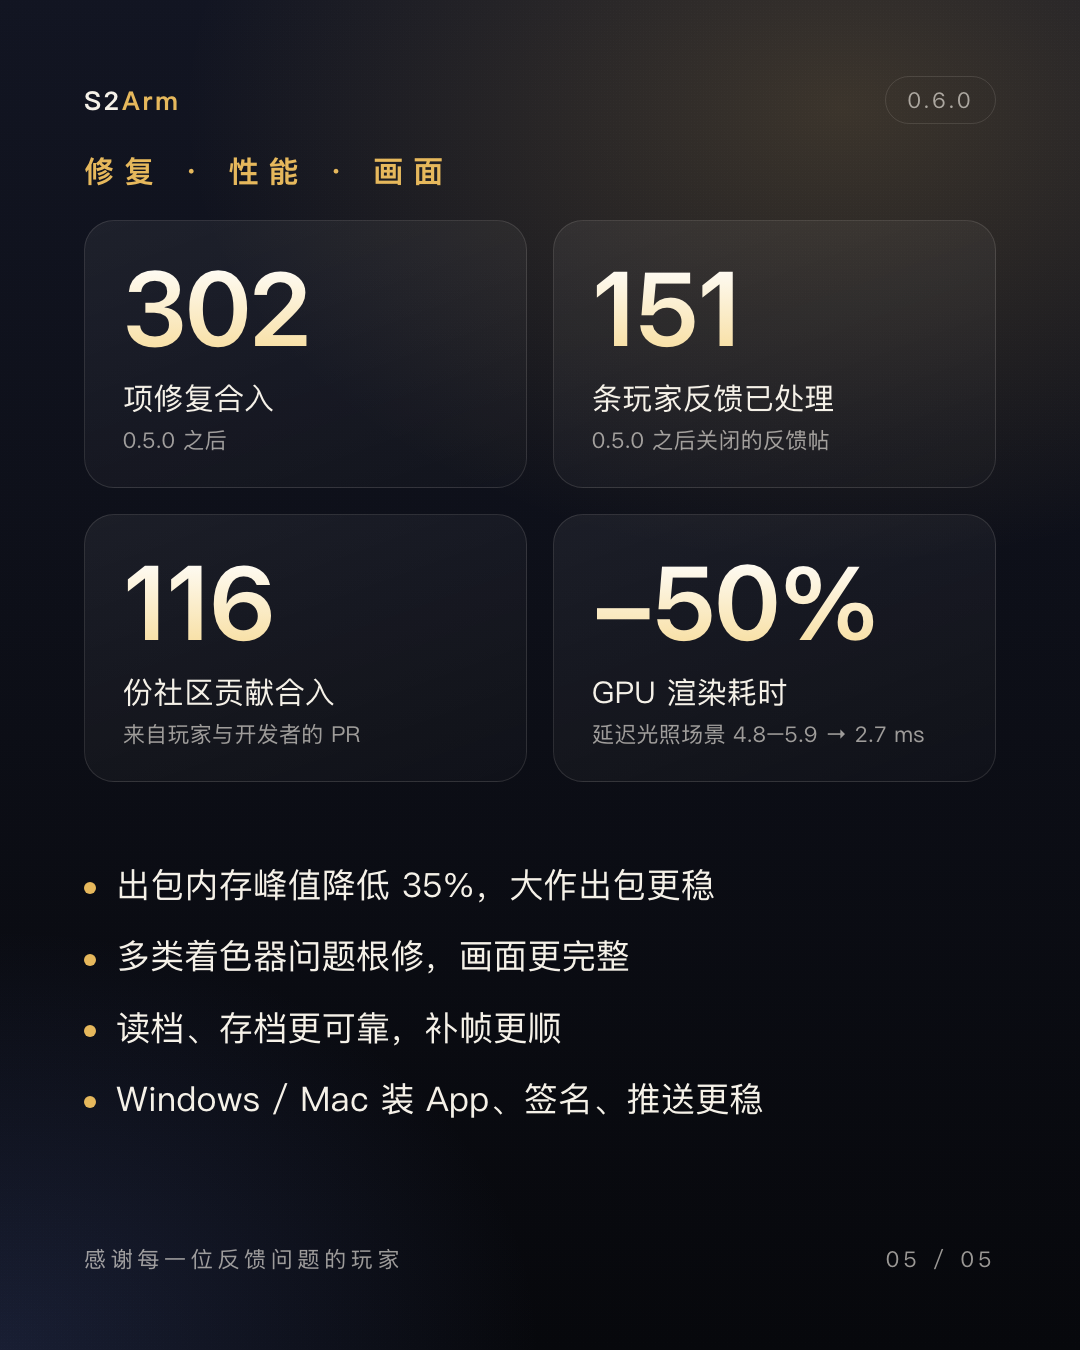
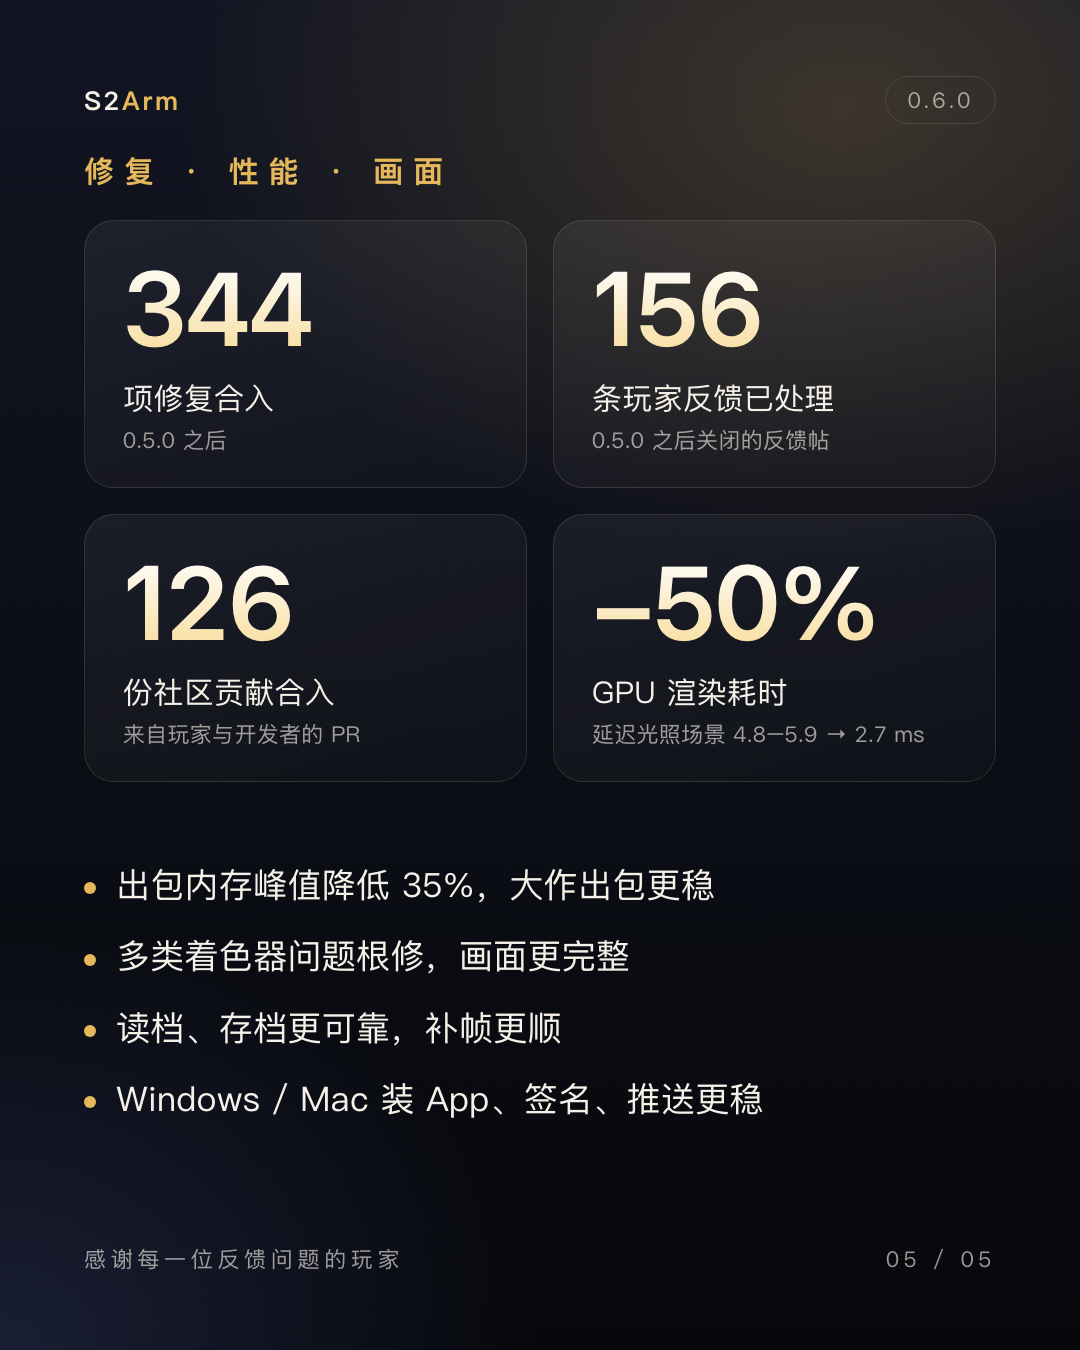
README：0.6.0 发版数字按发版提交 06f2e15f7 换成 344 / 156 / 126（六种语言 + 第 5 张海报中英）

Changed region(s): [[0.1528, 0.4044, 0.275, 0.4978], [0.1528, 0.1867, 0.3056, 0.28], [0.6417, 0.1867, 0.7028, 0.28]]

diff --git a/README.ja.md b/README.ja.md
@@ -47,9 +47,9 @@
 
 | | 数 | 数え方 |
 |---|---|---|
-| 取り込んだ修正 | **302** 件 | 0.5.0 リリース後に main に取り込んだ修正コミット |
-| 対応したプレイヤー報告 | **151** 件 | 0.5.0 リリース後にクローズしたフィードバック issue |
-| 取り込んだコミュニティ貢献 | **116** 件 | プレイヤーと開発者からの PR |
+| 取り込んだ修正 | **344** 件 | 0.5.0 リリース後に main に取り込んだ修正コミット |
+| 対応したプレイヤー報告 | **156** 件 | 0.5.0 リリース後にクローズしたフィードバック issue |
+| 取り込んだコミュニティ貢献 | **126** 件 | プレイヤーと開発者からの PR |
 | GPU 描画時間 | **−50%** | ディファードライティングの場面、4.8–5.9 ms → 2.7 ms |
 | エクスポート時のメモリ最大値 | **−35%** | 大型ゲームをエクスポートするときのメモリ最大値 |
 

diff --git a/README.es.md b/README.es.md
@@ -47,9 +47,9 @@ De la 0.5.0 a la 0.6.0 (cómo se cuenta cada cifra, en la tabla):
 
 | | Cifra | Cómo se cuenta |
 |---|---|---|
-| Correcciones integradas | **302** | Commits de corrección integrados en main después de la 0.5.0 |
-| Informes de jugadores atendidos | **151** | Issues de comentarios cerrados después de la 0.5.0 |
-| Contribuciones de la comunidad | **116** | Pull requests de jugadores y desarrolladores |
+| Correcciones integradas | **344** | Commits de corrección integrados en main después de la 0.5.0 |
+| Informes de jugadores atendidos | **156** | Issues de comentarios cerrados después de la 0.5.0 |
+| Contribuciones de la comunidad | **126** | Pull requests de jugadores y desarrolladores |
 | Tiempo de renderizado en GPU | **−50%** | Escena con iluminación diferida, 4.8–5.9 ms → 2.7 ms |
 | Pico de memoria al exportar | **−35%** | Pico de memoria al exportar juegos grandes |
 

diff --git a/README.fr.md b/README.fr.md
@@ -47,9 +47,9 @@ De la 0.5.0 à la 0.6.0 (la façon de compter chaque chiffre est dans le tableau
 
 | | Chiffre | Comment c'est compté |
 |---|---|---|
-| Corrections intégrées | **302** | Commits de correction intégrés dans main après la 0.5.0 |
-| Retours de joueurs traités | **151** | Issues de retours fermées après la 0.5.0 |
-| Contributions de la communauté | **116** | Pull requests de joueurs et de développeurs |
+| Corrections intégrées | **344** | Commits de correction intégrés dans main après la 0.5.0 |
+| Retours de joueurs traités | **156** | Issues de retours fermées après la 0.5.0 |
+| Contributions de la communauté | **126** | Pull requests de joueurs et de développeurs |
 | Temps de rendu GPU | **−50%** | Scène en éclairage différé, 4.8–5.9 ms → 2.7 ms |
 | Pic de mémoire à l'export | **−35%** | Pic de mémoire lors de l'export de gros jeux |
 

diff --git a/README.md b/README.md
@@ -47,9 +47,9 @@ From 0.5.0 to 0.6.0 (how each number is counted is in the table):
 
 | | Number | How it's counted |
 |---|---|---|
-| Fixes merged | **302** | Fix commits merged into main after 0.5.0 |
-| Player reports handled | **151** | Feedback issues closed after 0.5.0 |
-| Community contributions | **116** | Pull requests from players and developers |
+| Fixes merged | **344** | Fix commits merged into main after 0.5.0 |
+| Player reports handled | **156** | Feedback issues closed after 0.5.0 |
+| Community contributions | **126** | Pull requests from players and developers |
 | GPU render time | **−50%** | Deferred-lighting scene, 4.8–5.9 ms → 2.7 ms |
 | Build memory peak | **−35%** | Peak memory while building large games |
 

diff --git a/README.zh-TW.md b/README.zh-TW.md
@@ -47,9 +47,9 @@
 
 | | 數字 | 口徑 |
 |---|---|---|
-| 修復合入 | **302** 項 | 0.5.0 發布後合入 main 的修復提交 |
-| 玩家回饋處理 | **151** 條 | 0.5.0 發布後關閉的回饋帖 |
-| 社群貢獻合入 | **116** 份 | 來自玩家與開發者的 PR |
+| 修復合入 | **344** 項 | 0.5.0 發布後合入 main 的修復提交 |
+| 玩家回饋處理 | **156** 條 | 0.5.0 發布後關閉的回饋帖 |
+| 社群貢獻合入 | **126** 份 | 來自玩家與開發者的 PR |
 | GPU 渲染耗時 | **−50%** | 延遲光照場景，4.8–5.9 ms → 2.7 ms |
 | 出包記憶體峰值 | **−35%** | 大型遊戲出包時的記憶體峰值 |
 

diff --git a/README.zh-CN.md b/README.zh-CN.md
@@ -47,9 +47,9 @@
 
 | | 数字 | 口径 |
 |---|---|---|
-| 修复合入 | **302** 项 | 0.5.0 发布后合入 main 的修复提交 |
-| 玩家反馈处理 | **151** 条 | 0.5.0 发布后关闭的反馈帖 |
-| 社区贡献合入 | **116** 份 | 来自玩家与开发者的 PR |
+| 修复合入 | **344** 项 | 0.5.0 发布后合入 main 的修复提交 |
+| 玩家反馈处理 | **156** 条 | 0.5.0 发布后关闭的反馈帖 |
+| 社区贡献合入 | **126** 份 | 来自玩家与开发者的 PR |
 | GPU 渲染耗时 | **−50%** | 延迟光照场景，4.8–5.9 ms → 2.7 ms |
 | 出包内存峰值 | **−35%** | 大型游戏出包时的内存峰值 |
 
